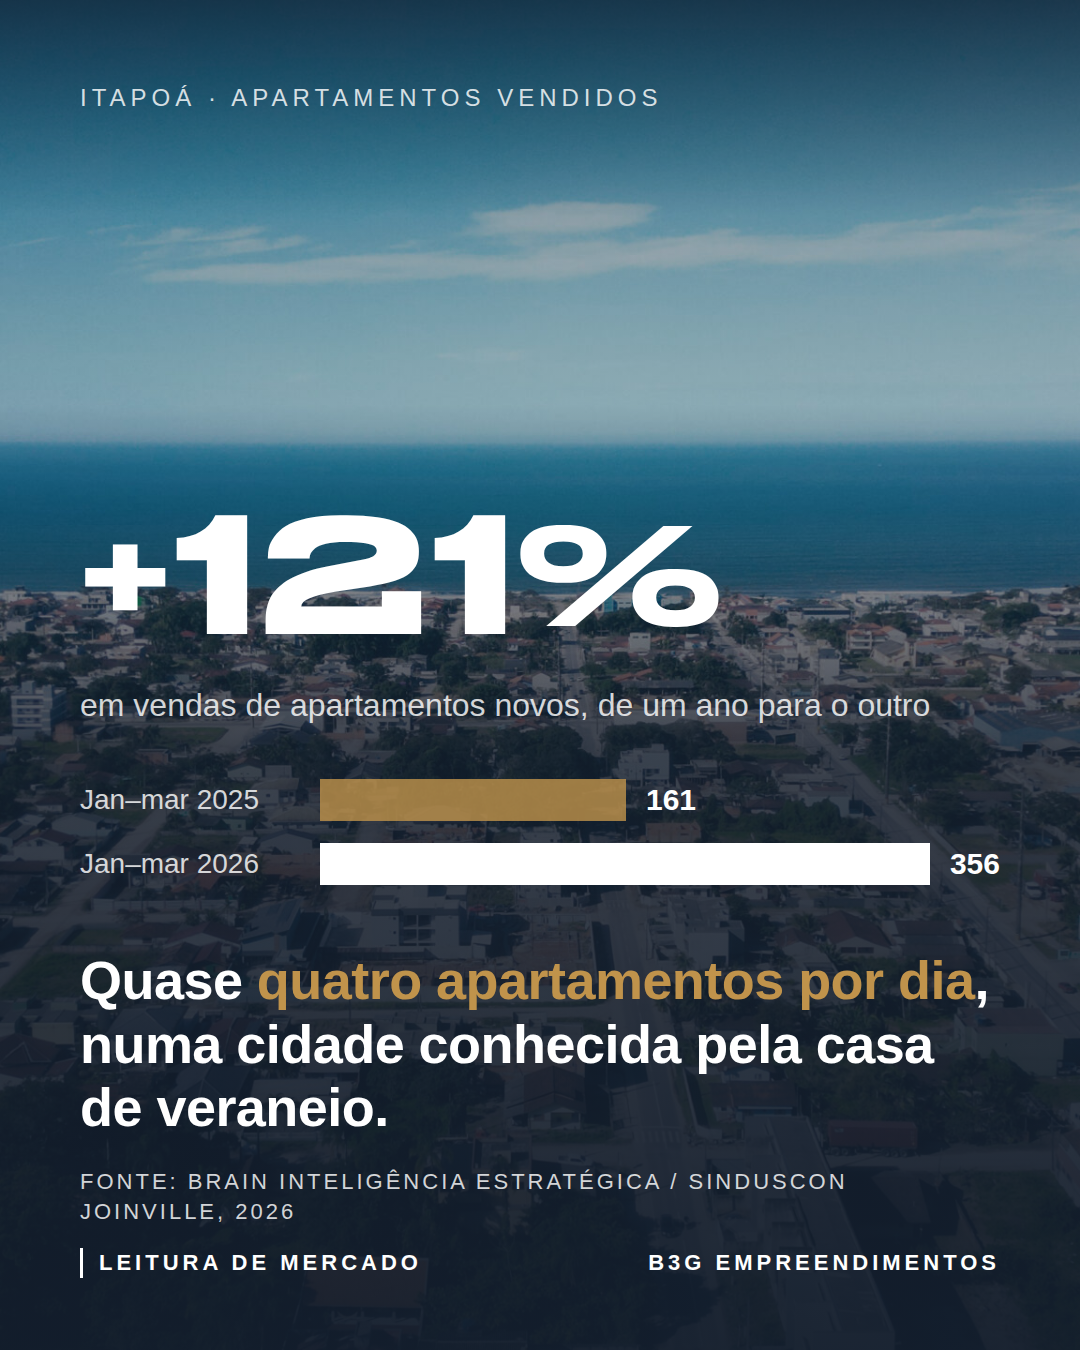
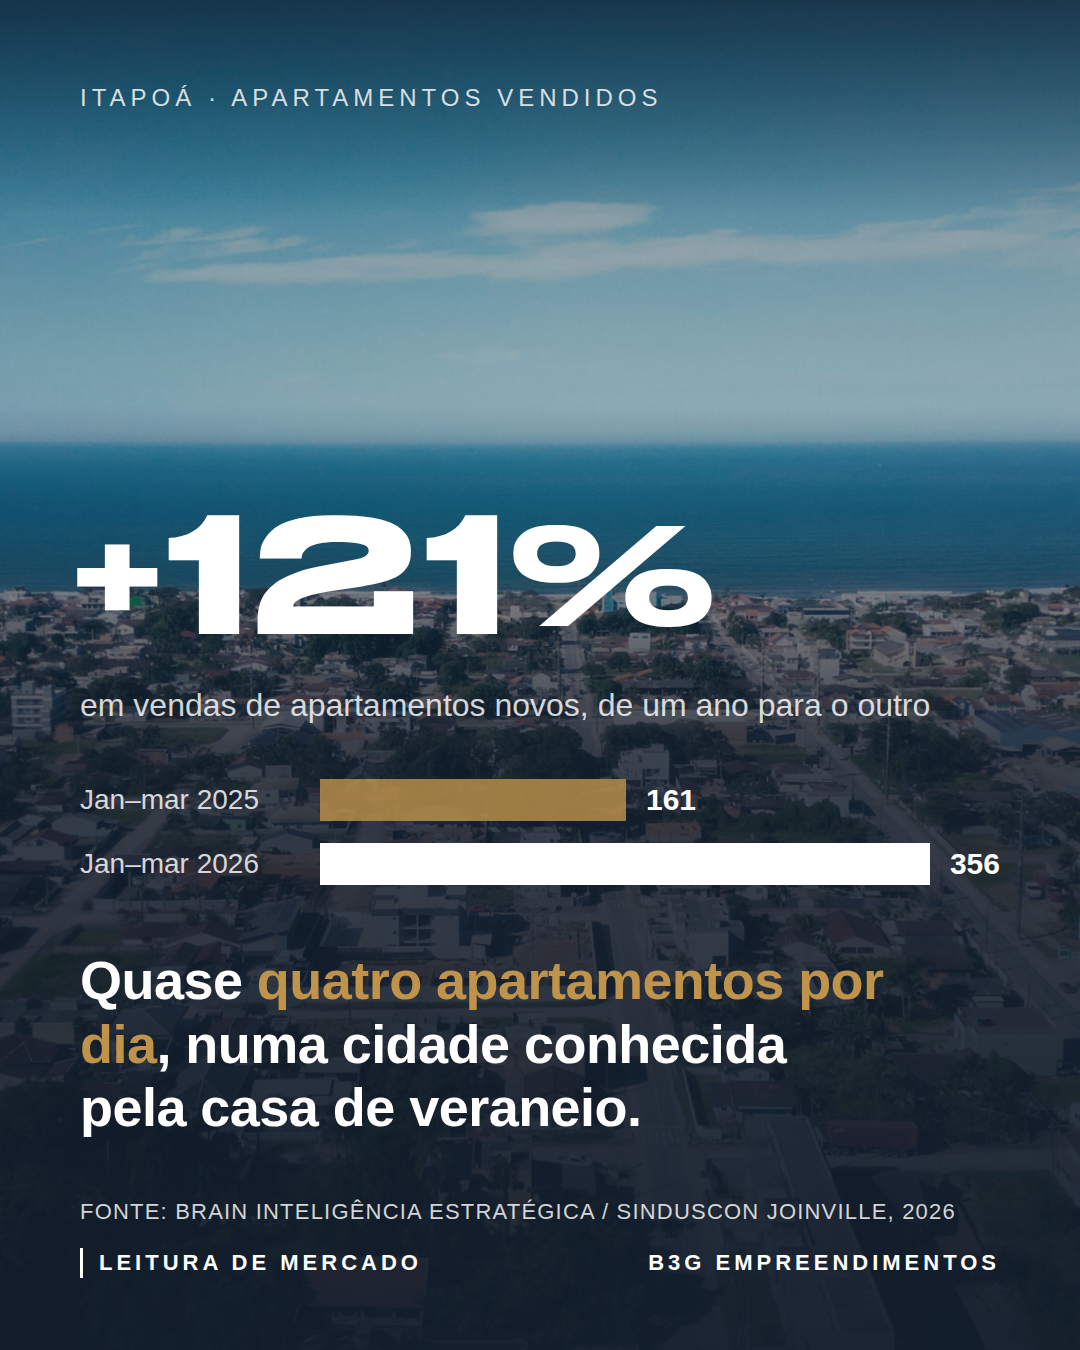
Polish the Itapoá carousel
Optically align hero figures with the text edge, balance line breaks,
soften the closing CTA into a small label, anchor the logo at the bottom
of the closing slide, and keep the slide 2 source on one line.

Claude-Session: https://claude.ai/code/session_01MkJUPckMk2A57CZdQx2khj

diff --git a/b3g-carrosseis/conteudo/carrosseis/itapoa-cidade-de-predios/instagram/slide-05.html b/b3g-carrosseis/conteudo/carrosseis/itapoa-cidade-de-predios/instagram/slide-05.html
@@ -12,29 +12,30 @@ body.dourado{background:#C0934B;color:#131E2D;--sec:rgba(19,30,45,.92);--bar1:rg
 .logo{width:150px;display:block}
 .corpo{position:absolute;left:80px;right:80px;bottom:210px;z-index:3}
 body.claro .corpo,body.dourado .corpo,body.navy .corpo{top:160px;bottom:200px;display:flex;flex-direction:column;justify-content:center}
-.big{font-family:"Stretch Pro",Arial,sans-serif;font-size:170px;line-height:.95;letter-spacing:.005em;word-spacing:-.3em;white-space:nowrap}
+.big{margin-left:-.045em;font-family:"Stretch Pro",Arial,sans-serif;font-size:170px;line-height:.95;letter-spacing:.005em;word-spacing:-.3em;white-space:nowrap}
 .u{margin-top:22px;font-size:32px;line-height:1.3;color:var(--sec)}
 .barras{margin-top:52px;display:grid;grid-template-columns:240px 1fr;row-gap:22px;align-items:center;font-size:28px}
 .barras .l{color:var(--sec)}
 .barras .b{display:flex;align-items:center;gap:20px;font-weight:700;font-size:30px}
 .barras .b i{display:block;height:42px;background:var(--bar1)}
 .barras .b.atual i{background:var(--bar2)}
+.u,.frase,.sub{text-wrap:balance}
 .frase{margin-top:64px;font-size:54px;line-height:1.18;font-weight:700;letter-spacing:-.01em}
 .frase .hl{color:var(--hl)}
 body.claro .frase .hl,body.dourado .frase .hl{text-decoration:underline;text-decoration-color:#C0934B;text-decoration-thickness:5px;text-underline-offset:10px}
 body.dourado .frase .hl{text-decoration-color:#FFFFFF}
-.rodape{position:absolute;left:80px;right:80px;bottom:72px;z-index:3;font-size:22px;letter-spacing:3px;line-height:1.35;text-transform:uppercase;color:var(--sec)}
+.rodape{position:absolute;left:80px;right:80px;bottom:72px;z-index:3;font-size:22px;letter-spacing:2px;line-height:1.35;text-transform:uppercase;color:var(--sec)}
 .rodape .sec{display:flex;justify-content:space-between;margin-top:22px;letter-spacing:4px;font-size:22px;font-weight:700}
 body.foto .rodape .sec,body.navy .rodape .sec{color:#fff}
 body.claro .rodape .sec,body.dourado .rodape .sec{color:#131E2D}
 .rodape .sec span:first-child{border-left:3px solid currentColor;padding-left:16px}
 .ac{font-family:Archivo,sans-serif;font-stretch:125%;font-weight:900;font-size:.98em}
-</style><style>.frase{margin-top:0}.cta{margin-top:72px;font-size:34px;line-height:1.35;color:rgba(255,255,255,.85)}.cta b{display:block;margin-top:18px;font-family:"Stretch Pro",Arial,sans-serif;font-weight:400;font-size:60px;color:#C0934B}.handle{margin-top:18px;font-size:34px;font-weight:700;color:#fff}.logo{width:200px;margin-top:96px}</style></head><body class="navy">
+</style><style>.frase{margin-top:0}.cta{margin-top:72px;font-size:34px;line-height:1.35;color:rgba(255,255,255,.85)}.cta b{display:block;margin-top:28px;font-size:24px;font-weight:700;letter-spacing:6px;color:#C0934B}.handle{margin-top:14px;font-size:30px;font-weight:400;color:rgba(255,255,255,.85)}.logo{width:170px;position:absolute;left:80px;bottom:96px}</style></head><body class="navy">
 <div class="rotulo"><span>Blog B3G Empreendimentos</span></div>
 <div class="corpo">
   <p class="frase">Cada projeto da B3G começa pela <span class="hl">leitura da cidade.</span></p>
   <p class="cta">A matéria completa está no nosso blog.<b>LINK NA BIO</b></p>
   <p class="handle">@b3g_empreendimentos</p>
-  <img class="logo" src="../../../../marca/logo-b3g-empreendimentos-negativo.png" alt="B3G Empreendimentos">
 </div>
+<img class="logo" src="../../../../marca/logo-b3g-empreendimentos-negativo.png" alt="B3G Empreendimentos">
 </body></html>

diff --git a/b3g-carrosseis/conteudo/carrosseis/itapoa-cidade-de-predios/instagram/slide-02.html b/b3g-carrosseis/conteudo/carrosseis/itapoa-cidade-de-predios/instagram/slide-02.html
@@ -12,24 +12,25 @@ body.dourado{background:#C0934B;color:#131E2D;--sec:rgba(19,30,45,.92);--bar1:rg
 .logo{width:150px;display:block}
 .corpo{position:absolute;left:80px;right:80px;bottom:210px;z-index:3}
 body.claro .corpo,body.dourado .corpo,body.navy .corpo{top:160px;bottom:200px;display:flex;flex-direction:column;justify-content:center}
-.big{font-family:"Stretch Pro",Arial,sans-serif;font-size:170px;line-height:.95;letter-spacing:.005em;word-spacing:-.3em;white-space:nowrap}
+.big{margin-left:-.045em;font-family:"Stretch Pro",Arial,sans-serif;font-size:170px;line-height:.95;letter-spacing:.005em;word-spacing:-.3em;white-space:nowrap}
 .u{margin-top:22px;font-size:32px;line-height:1.3;color:var(--sec)}
 .barras{margin-top:52px;display:grid;grid-template-columns:240px 1fr;row-gap:22px;align-items:center;font-size:28px}
 .barras .l{color:var(--sec)}
 .barras .b{display:flex;align-items:center;gap:20px;font-weight:700;font-size:30px}
 .barras .b i{display:block;height:42px;background:var(--bar1)}
 .barras .b.atual i{background:var(--bar2)}
+.u,.frase,.sub{text-wrap:balance}
 .frase{margin-top:64px;font-size:54px;line-height:1.18;font-weight:700;letter-spacing:-.01em}
 .frase .hl{color:var(--hl)}
 body.claro .frase .hl,body.dourado .frase .hl{text-decoration:underline;text-decoration-color:#C0934B;text-decoration-thickness:5px;text-underline-offset:10px}
 body.dourado .frase .hl{text-decoration-color:#FFFFFF}
-.rodape{position:absolute;left:80px;right:80px;bottom:72px;z-index:3;font-size:22px;letter-spacing:3px;line-height:1.35;text-transform:uppercase;color:var(--sec)}
+.rodape{position:absolute;left:80px;right:80px;bottom:72px;z-index:3;font-size:22px;letter-spacing:2px;line-height:1.35;text-transform:uppercase;color:var(--sec)}
 .rodape .sec{display:flex;justify-content:space-between;margin-top:22px;letter-spacing:4px;font-size:22px;font-weight:700}
 body.foto .rodape .sec,body.navy .rodape .sec{color:#fff}
 body.claro .rodape .sec,body.dourado .rodape .sec{color:#131E2D}
 .rodape .sec span:first-child{border-left:3px solid currentColor;padding-left:16px}
 .ac{font-family:Archivo,sans-serif;font-stretch:125%;font-weight:900;font-size:.98em}
-</style><style>.bg{object-position:50% center}</style></head><body class="foto">
+</style><style>.bg{object-position:50% center}.rodape{letter-spacing:1.2px}.rodape .sec{letter-spacing:4px}</style></head><body class="foto">
 <img class="bg" src="../imagens/cidade.jpg" alt=""><div class="ov"></div>
 <div class="rotulo"><span>Itapoá · Apartamentos vendidos</span></div>
 <div class="corpo">

diff --git a/b3g-carrosseis/conteudo/carrosseis/itapoa-cidade-de-predios/instagram/slide-01.html b/b3g-carrosseis/conteudo/carrosseis/itapoa-cidade-de-predios/instagram/slide-01.html
@@ -12,18 +12,19 @@ body.dourado{background:#C0934B;color:#131E2D;--sec:rgba(19,30,45,.92);--bar1:rg
 .logo{width:150px;display:block}
 .corpo{position:absolute;left:80px;right:80px;bottom:210px;z-index:3}
 body.claro .corpo,body.dourado .corpo,body.navy .corpo{top:160px;bottom:200px;display:flex;flex-direction:column;justify-content:center}
-.big{font-family:"Stretch Pro",Arial,sans-serif;font-size:170px;line-height:.95;letter-spacing:.005em;word-spacing:-.3em;white-space:nowrap}
+.big{margin-left:-.045em;font-family:"Stretch Pro",Arial,sans-serif;font-size:170px;line-height:.95;letter-spacing:.005em;word-spacing:-.3em;white-space:nowrap}
 .u{margin-top:22px;font-size:32px;line-height:1.3;color:var(--sec)}
 .barras{margin-top:52px;display:grid;grid-template-columns:240px 1fr;row-gap:22px;align-items:center;font-size:28px}
 .barras .l{color:var(--sec)}
 .barras .b{display:flex;align-items:center;gap:20px;font-weight:700;font-size:30px}
 .barras .b i{display:block;height:42px;background:var(--bar1)}
 .barras .b.atual i{background:var(--bar2)}
+.u,.frase,.sub{text-wrap:balance}
 .frase{margin-top:64px;font-size:54px;line-height:1.18;font-weight:700;letter-spacing:-.01em}
 .frase .hl{color:var(--hl)}
 body.claro .frase .hl,body.dourado .frase .hl{text-decoration:underline;text-decoration-color:#C0934B;text-decoration-thickness:5px;text-underline-offset:10px}
 body.dourado .frase .hl{text-decoration-color:#FFFFFF}
-.rodape{position:absolute;left:80px;right:80px;bottom:72px;z-index:3;font-size:22px;letter-spacing:3px;line-height:1.35;text-transform:uppercase;color:var(--sec)}
+.rodape{position:absolute;left:80px;right:80px;bottom:72px;z-index:3;font-size:22px;letter-spacing:2px;line-height:1.35;text-transform:uppercase;color:var(--sec)}
 .rodape .sec{display:flex;justify-content:space-between;margin-top:22px;letter-spacing:4px;font-size:22px;font-weight:700}
 body.foto .rodape .sec,body.navy .rodape .sec{color:#fff}
 body.claro .rodape .sec,body.dourado .rodape .sec{color:#131E2D}

diff --git a/b3g-carrosseis/conteudo/carrosseis/itapoa-cidade-de-predios/instagram/slide-03.html b/b3g-carrosseis/conteudo/carrosseis/itapoa-cidade-de-predios/instagram/slide-03.html
@@ -12,18 +12,19 @@ body.dourado{background:#C0934B;color:#131E2D;--sec:rgba(19,30,45,.92);--bar1:rg
 .logo{width:150px;display:block}
 .corpo{position:absolute;left:80px;right:80px;bottom:210px;z-index:3}
 body.claro .corpo,body.dourado .corpo,body.navy .corpo{top:160px;bottom:200px;display:flex;flex-direction:column;justify-content:center}
-.big{font-family:"Stretch Pro",Arial,sans-serif;font-size:170px;line-height:.95;letter-spacing:.005em;word-spacing:-.3em;white-space:nowrap}
+.big{margin-left:-.045em;font-family:"Stretch Pro",Arial,sans-serif;font-size:170px;line-height:.95;letter-spacing:.005em;word-spacing:-.3em;white-space:nowrap}
 .u{margin-top:22px;font-size:32px;line-height:1.3;color:var(--sec)}
 .barras{margin-top:52px;display:grid;grid-template-columns:240px 1fr;row-gap:22px;align-items:center;font-size:28px}
 .barras .l{color:var(--sec)}
 .barras .b{display:flex;align-items:center;gap:20px;font-weight:700;font-size:30px}
 .barras .b i{display:block;height:42px;background:var(--bar1)}
 .barras .b.atual i{background:var(--bar2)}
+.u,.frase,.sub{text-wrap:balance}
 .frase{margin-top:64px;font-size:54px;line-height:1.18;font-weight:700;letter-spacing:-.01em}
 .frase .hl{color:var(--hl)}
 body.claro .frase .hl,body.dourado .frase .hl{text-decoration:underline;text-decoration-color:#C0934B;text-decoration-thickness:5px;text-underline-offset:10px}
 body.dourado .frase .hl{text-decoration-color:#FFFFFF}
-.rodape{position:absolute;left:80px;right:80px;bottom:72px;z-index:3;font-size:22px;letter-spacing:3px;line-height:1.35;text-transform:uppercase;color:var(--sec)}
+.rodape{position:absolute;left:80px;right:80px;bottom:72px;z-index:3;font-size:22px;letter-spacing:2px;line-height:1.35;text-transform:uppercase;color:var(--sec)}
 .rodape .sec{display:flex;justify-content:space-between;margin-top:22px;letter-spacing:4px;font-size:22px;font-weight:700}
 body.foto .rodape .sec,body.navy .rodape .sec{color:#fff}
 body.claro .rodape .sec,body.dourado .rodape .sec{color:#131E2D}

diff --git a/b3g-carrosseis/conteudo/carrosseis/itapoa-cidade-de-predios/instagram/slide-04.html b/b3g-carrosseis/conteudo/carrosseis/itapoa-cidade-de-predios/instagram/slide-04.html
@@ -12,18 +12,19 @@ body.dourado{background:#C0934B;color:#131E2D;--sec:rgba(19,30,45,.92);--bar1:rg
 .logo{width:150px;display:block}
 .corpo{position:absolute;left:80px;right:80px;bottom:210px;z-index:3}
 body.claro .corpo,body.dourado .corpo,body.navy .corpo{top:160px;bottom:200px;display:flex;flex-direction:column;justify-content:center}
-.big{font-family:"Stretch Pro",Arial,sans-serif;font-size:170px;line-height:.95;letter-spacing:.005em;word-spacing:-.3em;white-space:nowrap}
+.big{margin-left:-.045em;font-family:"Stretch Pro",Arial,sans-serif;font-size:170px;line-height:.95;letter-spacing:.005em;word-spacing:-.3em;white-space:nowrap}
 .u{margin-top:22px;font-size:32px;line-height:1.3;color:var(--sec)}
 .barras{margin-top:52px;display:grid;grid-template-columns:240px 1fr;row-gap:22px;align-items:center;font-size:28px}
 .barras .l{color:var(--sec)}
 .barras .b{display:flex;align-items:center;gap:20px;font-weight:700;font-size:30px}
 .barras .b i{display:block;height:42px;background:var(--bar1)}
 .barras .b.atual i{background:var(--bar2)}
+.u,.frase,.sub{text-wrap:balance}
 .frase{margin-top:64px;font-size:54px;line-height:1.18;font-weight:700;letter-spacing:-.01em}
 .frase .hl{color:var(--hl)}
 body.claro .frase .hl,body.dourado .frase .hl{text-decoration:underline;text-decoration-color:#C0934B;text-decoration-thickness:5px;text-underline-offset:10px}
 body.dourado .frase .hl{text-decoration-color:#FFFFFF}
-.rodape{position:absolute;left:80px;right:80px;bottom:72px;z-index:3;font-size:22px;letter-spacing:3px;line-height:1.35;text-transform:uppercase;color:var(--sec)}
+.rodape{position:absolute;left:80px;right:80px;bottom:72px;z-index:3;font-size:22px;letter-spacing:2px;line-height:1.35;text-transform:uppercase;color:var(--sec)}
 .rodape .sec{display:flex;justify-content:space-between;margin-top:22px;letter-spacing:4px;font-size:22px;font-weight:700}
 body.foto .rodape .sec,body.navy .rodape .sec{color:#fff}
 body.claro .rodape .sec,body.dourado .rodape .sec{color:#131E2D}
